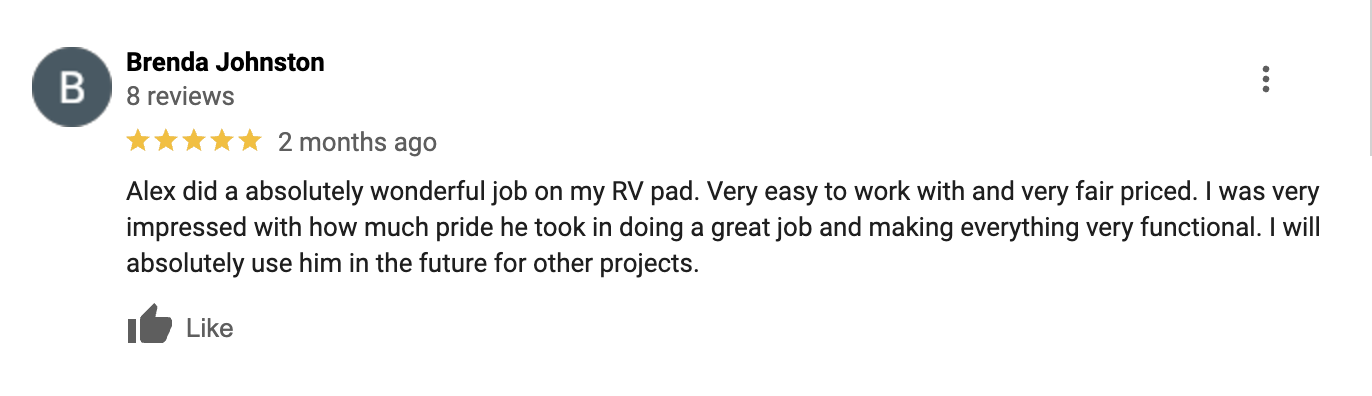
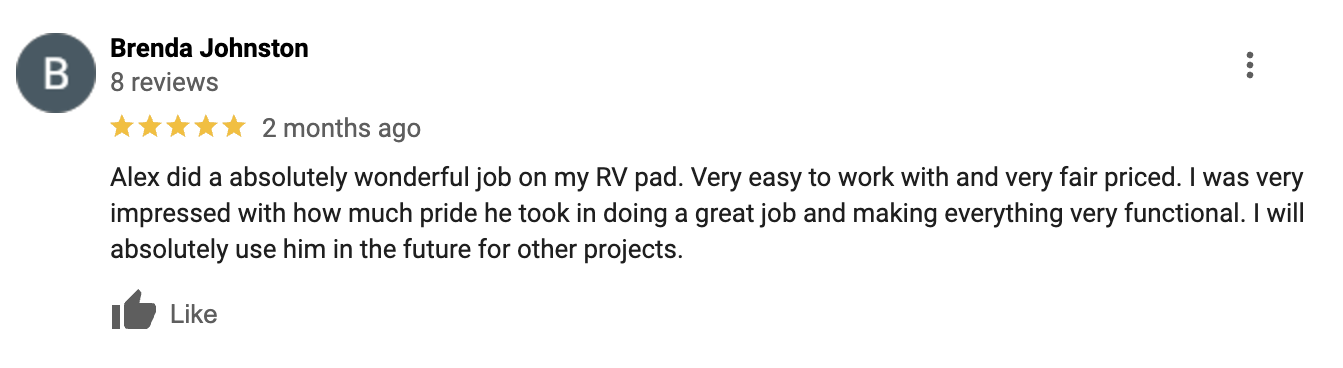
Fixed styling customer reviews

diff --git a/src/components/pages/Reviews.js b/src/components/pages/Reviews.js
@@ -7,7 +7,7 @@ import "../../style/PagesStyle/Reviews.css";
 const Reviews = () => {
   const divStyle = {
     fontFamily: "Arial, sans-serif",
-    padding: "20px",
+    // padding: "20px",
   };
 
   const titleStyle = {
@@ -16,10 +16,10 @@ const Reviews = () => {
   };
 
   const liStyle = {
-    margin: "10px 0",
-    padding: "10px",
-    border: "1px solid #ddd",
-    borderRadius: "5px",
+    // margin: "10px 0",
+    // padding: "10px",
+    // border: "1px solid #ddd",
+    // borderRadius: "5px",
     display: "flex",
     alignItems: "center",
   };
@@ -64,7 +64,6 @@ const Reviews = () => {
     <div style={divStyle}>
       <br />
       <h1 style={titleStyle}>Customer Reviews</h1>
-      <br />
       <br />
       <div>
         <ul>{renderReviews()}</ul>

diff --git a/src/style/PagesStyle/Reviews.css b/src/style/PagesStyle/Reviews.css
@@ -1,10 +1,10 @@
 #review-photo {
   background-position: center;
-  margin-left: 1vh;
-  margin-top: 5vh;
+  margin-left: -3vh;
+  /* margin-top: 5vh; */
   margin-bottom: 5vh;
-  height: 60%;
-  width: 80%;
+  height: 100%;
+  width: 104%;
   display: "flex";
   align-items: "center";
 }
